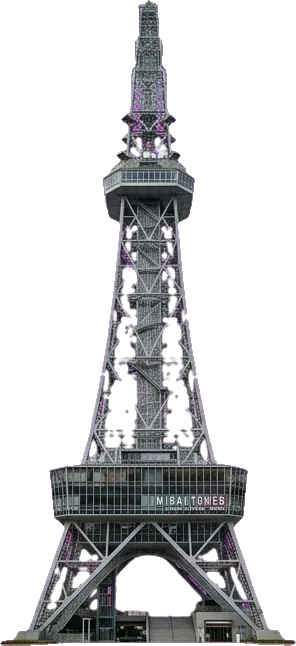
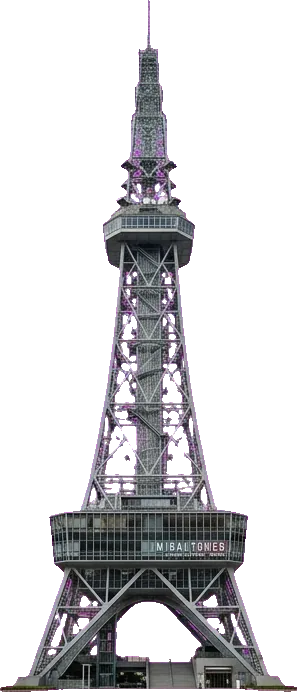
Keep thin steel frames when cutting out size-compare images

Changed region(s): [[0.0, 0.0, 1.0, 1.0]]

diff --git a/games/size-compare/sw.js b/games/size-compare/sw.js
@@ -1,5 +1,5 @@
 // 一度ひらけば オフラインでも あそべるように ファイルを ためておく
-const CACHE = 'size-compare-v1';
+const CACHE = 'size-compare-v2';
 const FILES = ['./', './index.html', './manifest.json', './icon-192.png', './icon-512.png',
   './images/adult.webp','./images/bear.webp','./images/cat.webp','./images/elephant.webp','./images/ferris.webp','./images/freed.webp','./images/fuji.webp','./images/giraffe.webp','./images/hamster.webp','./images/harukas.webp','./images/himeji.webp','./images/jumbo.webp','./images/kid.webp','./images/mirai.webp','./images/nara_daibutsu.webp','./images/penguin.webp','./images/rabbit.webp','./images/shiba.webp','./images/shinkansen.webp','./images/skybus.webp','./images/skytree.webp','./images/toji.webp','./images/tokyotower.webp','./images/torii.webp','./images/trex.webp','./images/ushiku.webp','./images/vending.webp','./images/whale.webp'];
 self.addEventListener('install', e => e.waitUntil(caches.open(CACHE).then(c => c.addAll(FILES))));

diff --git a/process_size_images.py b/process_size_images.py
@@ -12,7 +12,7 @@ BASE = os.path.join(os.path.dirname(__file__), "games", "size-compare")
 RAW = os.path.join(BASE, "raw")
 OUT = os.path.join(BASE, "images")
 MAX_SIDE = 900
-EDGE = 5  # 境目からこのpx以内は マゼンタのにじみを消す
+EDGE = 3  # 境目からこのpx以内は 背景色の混ざりを取りのぞく
 SPILL_ALL = {"freed", "jumbo", "shinkansen", "skybus"}  # 窓ごしに背景が写る絵は 全体のにじみを消す
 
 
@@ -27,27 +27,27 @@ def process(name):
     dist = np.linalg.norm(rgb - bgc, axis=2)
     score = np.maximum(np.clip((m - 30) / 40, 0, 1), np.clip(1 - (dist - 30) / 50, 0, 1))
 
-    # 外側からつながるマゼンタだけを背景にする
+    # 外側からつながるマゼンタだけを背景にする（鉄骨などの細い線を消さないよう、すきま埋めはしない）
     cand = score > 0.5
     lab, _ = ndimage.label(cand)
     border = np.unique(np.concatenate([lab[0], lab[-1], lab[:, 0], lab[:, -1]]))
     bg = np.isin(lab, border[border > 0])
     # しっぽの輪の中など、とじこめられた背景色も消す
     bg |= (dist < 20) | (m > 90)
-    # 背景のすきまの小さな点も背景に
-    bg = ndimage.binary_closing(bg, iterations=2) | bg
 
+    # 境目は「背景色がどれだけ混ざっているか」から透明度を出し、背景色を差し引いて色を戻す
+    m_bg = max(60.0, float(np.median(np.concatenate([m[0], m[-1], m[:, 0], m[:, -1]]))))
+    mix = np.clip((m - 20) / (m_bg * 0.9 - 20), 0, 1)
     near = ndimage.binary_dilation(bg, iterations=EDGE) & ~bg
-    alpha = np.where(bg, 0.0, 1.0)
-    alpha = np.where(near, 1 - score * 0.9, alpha)
-    alpha = ndimage.gaussian_filter(alpha, 0.7)
-    alpha[bg] = 0
+    alpha = np.where(bg, 0.0, np.where(near, 1 - mix, 1.0))
+    a = np.maximum(alpha, 0.05)[..., None]
+    out = np.where(near[..., None], (rgb - (1 - a) * bgc) / a, rgb)
 
-    # にじみ消し（境目の近くだけ）
-    spill = np.clip(m, 0, None) * (True if name in SPILL_ALL else near)
-    out = rgb.copy()
-    out[..., 0] -= spill * 0.9
-    out[..., 2] -= spill * 0.9
+    # 窓ごしに背景が写る絵は 全体のにじみも消す
+    if name in SPILL_ALL:
+        spill = np.clip(m, 0, None) * ~bg
+        out[..., 0] -= spill * 0.9
+        out[..., 2] -= spill * 0.9
     out = np.clip(out, 0, 255)
 
     rgba = np.dstack([out, alpha * 255]).astype(np.uint8)
